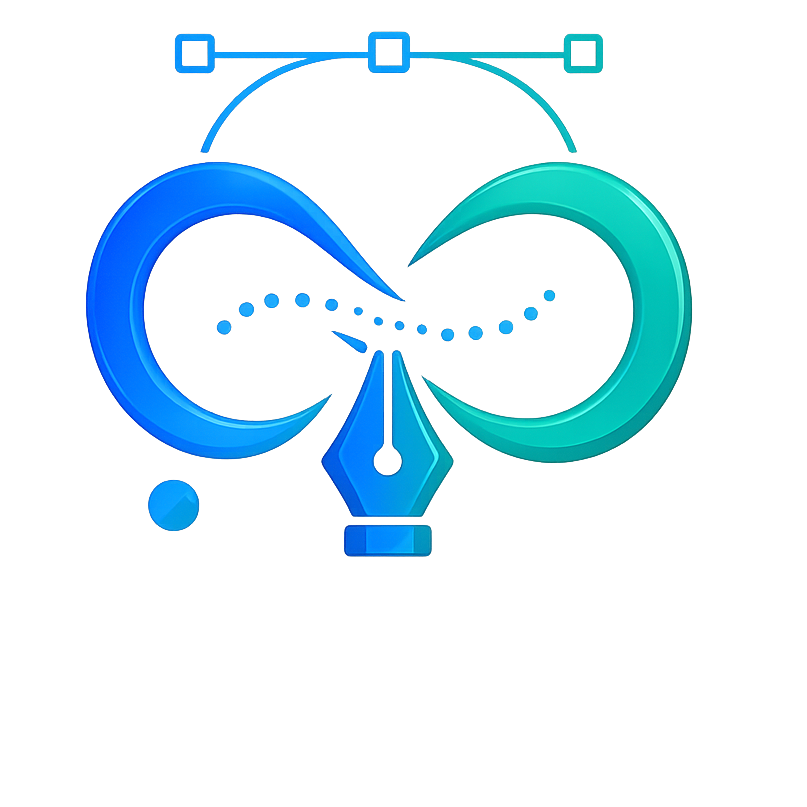
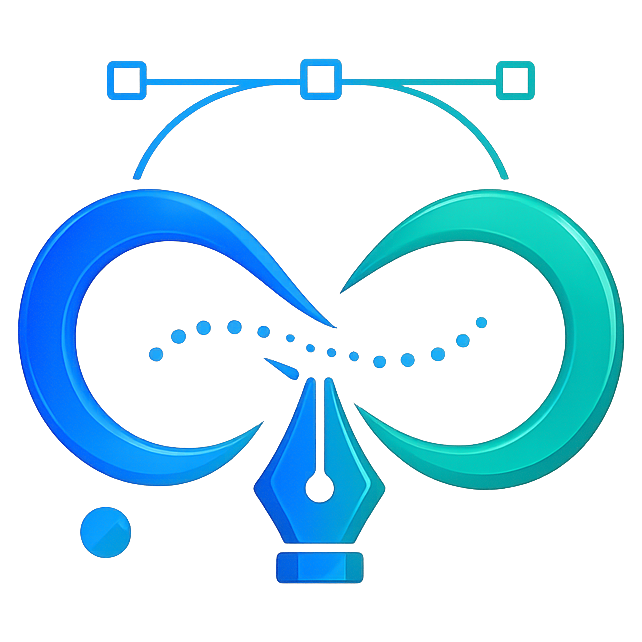
Update ServiceWall component with enhanced comments and image adjustments
- Revised comments to clarify the layout rationale and image scaling behavior, improving understanding of the component's design.
- Increased the height of the image container for better visual alignment.
- Updated multiple service images to ensure consistency in visual representation across the ServiceWall component.

Changed region(s): [[0.0312, 0.0312, 0.9969, 0.9346]]

diff --git a/components/pages/services-view.tsx b/components/pages/services-view.tsx
@@ -222,13 +222,22 @@ export function ServiceWall({
                   padding, which the words need and the picture does not. */}
             {/* Sized by its height, so that is the number to turn.
 
-                The box is wider than it is tall and the drawings are close to
-                square, so `contain` always fits them by the height and the
-                width never binds. Raising the height is the only thing that
-                makes them bigger; widening the box does nothing at all. */}
+                The box is wider than it is tall and the files are square, so
+                `contain` always fits them by the height and the width never
+                binds. Raising the height is the only thing that makes them
+                bigger; widening the box does nothing at all.
+
+                And they are square in the file on purpose. They were seven
+                different canvases with the artwork sitting in a different
+                share of each - between four tenths and seven - so `contain`
+                scaled every one by a different number and no CSS could have
+                evened them up. Each is cropped to its own artwork and padded
+                back out to a square, so the largest side of every drawing is
+                the same fraction of its own file and one box scales them all
+                alike. */}
             <span
               aria-hidden
-              className="pointer-events-none absolute inset-x-0 top-1 block h-[224px]"
+              className="pointer-events-none absolute inset-x-0 top-1 block h-[248px]"
             >
               {entry.art ? (
                 <Image
@@ -251,7 +260,7 @@ export function ServiceWall({
 
             {/* Clear of the drawing by the drawing's own height, so this is
                 the one number that decides where every card's type starts. */}
-            <div className="pt-[228px]">
+            <div className="pt-[252px]">
               {/* Two lines' worth of room whether the name needs it or not.
                   Four of these run to one line and three to two, and with the
                   box sized to its own words the sentences under them landed at
